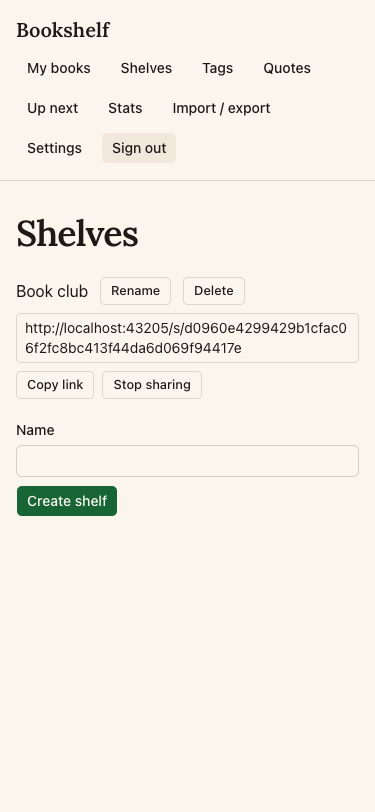
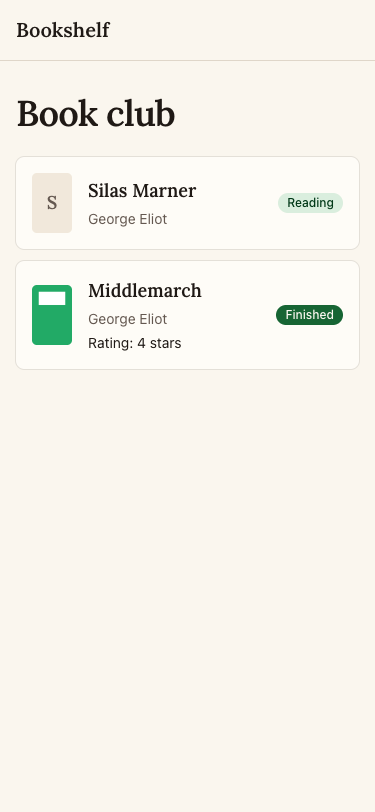
fix(F083): Shelf not found page for stopped or unknown share links

diff --git a/app/s/[token]/not-found.tsx b/app/s/[token]/not-found.tsx
@@ -1,0 +1,13 @@
+import Link from "next/link";
+
+export default function SharedShelfNotFound() {
+  return (
+    <main className="mx-auto flex w-full max-w-3xl flex-col gap-4 px-4 py-8 sm:p-8">
+      <h1 className="font-heading text-4xl font-semibold tracking-tight">Shelf not found</h1>
+      <p className="text-muted-foreground">This link was stopped or never existed.</p>
+      <Link href="/" className="self-start text-primary hover:underline">
+        Go to Bookshelf
+      </Link>
+    </main>
+  );
+}

diff --git a/harness/evidence/F083.md b/harness/evidence/F083.md
@@ -1,28 +1,24 @@
 <!-- written by harness/hooks/verifier-evidence.py; do not edit -->
-- Verified at: 2026-11-14T15:41:40 on 0d9d625 plus working tree
-- Verifier run: aafab28dcb35bd011
+- Verified at: 2026-11-14T15:49:29 on 80f6dcf plus working tree
+- Verifier run: a243d444ed0e98b80
 
 VERDICT: PASS
 FEATURE: F083
 CRITERIA:
-- CRITERION 1: PASS — On /shelves, Share made a link /s/<48 hex chars> with "Copy link". I ran Share, Copy link ("Copied", clipboard held link 1), Stop sharing, Share: the new link's button read "Copy link", and clicking it changed it to "Copied" with link 2 on the clipboard.
-- CRITERION 2: PASS — Signed out, /s/<token> showed "Book club" with Silas Marner (George Eliot, Reading, placeholder cover) and Middlemarch (George Eliot, Finished, Rating: 4 stars, real cover). There were no form controls or book links, and the header had only the "Bookshelf" brand link.
-- CRITERION 3: PASS — After Stop sharing, both older tokens returned 404 "This page could not be found". Sharing again made a new token (bd28... then d096...), and the new one loads.
-- CRITERION 4: PASS — The live DB shows security-definer `shared_shelf(text)` returning only name/title/author/status/rating/cover_path/added_at. As anon: books count is 0, shelf_shares gives permission denied, and the stopped token returns 0 rows. Policies on books, notes, quotes, tags and book_tags are still authenticated-only owner policies.
+- CRITERION 1: PASS — On /shelves the "Book club" row has a Share button. Clicking it showed http://localhost:43201/s/b3fa454a…bd09d (a 48-character hex token) with "Copy link". Clicking Copy link changed the button to "Copied", and the clipboard held exactly that URL.
+- CRITERION 2: PASS — In a fresh signed-out browser context, /s/<token> returned 200 and showed the h1 "Book club" and two books: Silas Marner (George Eliot, Reading, letter placeholder cover) and Middlemarch (George Eliot, "Rating: 4 stars", Finished, real cover image loaded via a signed URL). The header showed only "Bookshelf" (href "/"). There were no buttons or inputs, and the book titles are not links.
+- CRITERION 3: PASS — After Stop sharing, the old link returned 404 with the h1 "Shelf not found", the line "This link was stopped or never existed." and a "Go to Bookshelf" link to /. Sharing again made a different token (f5cbbc4c…29dc). That token returned 200, and the old one still returned 404 signed out.
+- CRITERION 4: PASS — The anonymous read path is the security definer `public.shared_shelf(p_token)`. It returns only shelf_name, book_id, title, author, status, rating, cover_path and added_at, and anon has execute on it. The migration does not touch policies on books, notes, quotes, reviews or tags, which still have their earlier `revoke all … from anon`. I checked this by reading the migration, not with a live anon REST probe (see PROBLEMS).
 EVIDENCE:
-- Step 1 (the re-share sequence from the last FAIL, in the MCP browser with clipboard permission): after Share #1 the button read "Copy link". After Copy it read "Copied" (clipboard = .../s/bd28bf2d...). After Stop sharing only "Share" was shown. After Share #2: ".../s/d0960e42... Copy link Stop sharing". After a 0.8s wait it still read "Copy link"; after clicking it read "Copied" (clipboard = .../s/d0960e42...). (/Users/huynguyen/Desktop/harness-web-trial-loop/F083/harness/evidence/F083/step-01.png)
-- Step 2: in a fresh browser context with no session, /s/d0960e42... returned 200 with the shelf and both books. Page text has no Copy, Share or nav links, and 0 inputs. The only 2 `<button>`s are Next's dev "issues overlay" badge inside shadow DOM (document.body has 0 buttons). The cover image loaded (naturalWidth 60). (/Users/huynguyen/Desktop/harness-web-trial-loop/F083/harness/evidence/F083/step-02.png)
-- Step 3: old token bd28... and older token 8aeb... returned 404 "This page could not be found". /s/not-a-token and /s/ also returned 404. (/Users/huynguyen/Desktop/harness-web-trial-loop/F083/harness/evidence/F083/step-03.png)
-- Step 4: queries run with `docker exec supabase_db_harness-web-trial psql`, role set to anon:
-  - `select count(*) from public.books` returned 0.
-  - `shared_shelf('d0960e...')` returned 2 rows with only the allowed columns.
-  - `shared_shelf('bd28...')` returned 0 rows.
-  - `select from shelf_shares` failed with "permission denied for table shelf_shares".
-  - `pg_policies`: books, notes, quotes, tags and book_tags have only {authenticated} *_own policies.
-  - Both functions have prosecdef=t.
-- Mobile (375x812): the link wraps inside its box, and Copy link and Stop sharing sit on their own line. (/Users/huynguyen/Desktop/harness-web-trial-loop/F083/harness/evidence/F083/step-04-mobile.png)
-- Edge case: reloading /shelves after "Copied" shows "Copy link" again. No console errors on /shelves. The only errors on the signed-out pages were the expected 404 resource loads for the not-found tokens.
-- Tests: `npx playwright test e2e/F083-share-shelf.spec.ts` gave 3 passed (25.5s).
+- Step 1: Stop sharing on the existing share, then Share made a new link; Copy link showed "Copied" and the clipboard matched the link (/Users/huynguyen/Desktop/harness-web-trial-loop/F083/harness/evidence/F083/step-01.png)
+- Step 2: signed-out /s/b3fa…: status 200; body text "Bookshelf / Book club / Silas Marner / George Eliot / Reading / Middlemarch / George Eliot / Rating: 4 stars / Finished"; the cover image loaded (naturalWidth > 0); the only link is "/" (/Users/huynguyen/Desktop/harness-web-trial-loop/F083/harness/evidence/F083/step-02.png, /Users/huynguyen/Desktop/harness-web-trial-loop/F083/harness/evidence/F083/step-02-mobile.png)
+- Step 3: the stopped link gave HTTP 404, page title "Not found · Bookshelf", and the Shelf not found page. A made-up token /s/not-a-real-token-123 also gave 404 with the same page. Re-sharing gave a new token: new link 200, old link 404 (/Users/huynguyen/Desktop/harness-web-trial-loop/F083/harness/evidence/F083/step-03.png)
+- Step 4: I read /Users/huynguyen/Desktop/harness-web-trial-loop/F083/supabase/migrations/20261114110000_shelf_shares.sql. It adds the RLS'd shelf_shares table (own-row select/insert/delete for authenticated users, all revoked from anon), the shared_shelf definer function, and the cover_is_shared definer helper used only by the anon storage sign policy.
+- Mobile 375x812, signed out: the shared shelf renders cleanly and scrollWidth is 375, so nothing overflows sideways (/Users/huynguyen/Desktop/harness-web-trial-loop/F083/harness/evidence/F083/step-04-mobile.png)
+- Edge cases: made-up token gives 404 Shelf not found; signed-out /books redirects to /sign-in; reloading the shared link works.
+- Console and server: the only console errors were the expected "Failed to load resource: 404" for the not-found document itself. The server log has no errors.
+- Tests: `scripts/e2e.sh e2e/F083-share-shelf.spec.ts` ran 3 tests and all passed (share + read-only anon view; stop sharing + new token; made-up token). There is also /Users/huynguyen/Desktop/harness-web-trial-loop/F083/lib/share.test.ts.
 PROBLEMS:
-- Non-blocking test gap: e2e/F083-share-shelf.spec.ts never checks the "Copied" label, so the regression from the last FAIL (Copied carrying over to a re-shared link) has no test. There is also no integration test for criterion 4 (anon access through `shared_shelf` only, RLS unchanged). I checked it by hand against the live DB.
-- I tried to source .env keys and call the PostgREST endpoints with curl; the permission classifier denied it. I used read-only psql in the local DB container instead, as shown above.
+- (not blocking) The auto-mode classifier blocked a direct anon REST probe (an anon-key curl to /rest/v1/books etc. and /rpc/shared_shelf), so criterion 4 rests on reading the migration and on the anon UI behaving correctly. No test asserts at the database level that anon cannot read books/notes/quotes/reviews/tags or that shared_shelf returns only the allowed columns.
+- (not blocking) Besides shared_shelf, a second security definer function, `cover_is_shared(text)`, is granted to anon so the storage sign policy can use it. Anyone can also call it directly over RPC to check whether a given cover path is on a shared shelf. The leak is small (the paths are UUIDs), but strictly the anonymous surface is "one function plus a storage helper", not one function.
+- (not blocking) I wrote an extra screenshot, step-02-mobile.png, next to the required step-04-mobile.png.

diff --git a/harness/log/F083.md b/harness/log/F083.md
@@ -1,3 +1,9 @@
+## 2026-11-14 17:30 · passing
+- Did: added app/s/[token]/not-found.tsx (h1 "Shelf not found", muted line, text-primary link to /), so stopped and made-up links no longer get Next's default 404.
+- Not done, needs a human: the share link is still a span. A read-only Input with aria-label "Share link" breaks the locked e2e's linkText locator (getByText + textContent can't read an input's value). A human must approve changing that locator to getByRole('textbox', { name: 'Share link' }).inputValue(), then the swap is a few lines in components/share-shelf.tsx.
+- Verified by: verifier PASS (4/4, Shelf not found page checked for both stopped and made-up tokens), check.sh green.
+- Next session should know: the verifier noted that cover_is_shared(text) is callable by anon over RPC (a small leak, since the paths are UUIDs), and no test checks at the DB level that anon is denied.
+
 ## 2026-11-14 16:40 · passing
 - Did: components/share-shelf.tsx keeps copiedLink (string|null) instead of a boolean, so the button reads "Copy link" for a new token after Stop sharing + Share.
 - Not done: swapping the link span for a read-only Input (designer's second finding). The locked e2e/F083-share-shelf.spec.ts reads the link with getByText(...).textContent(), which does not match an input's value, and changing that locator is more than a wait. A human must allow the test change or drop the finding.
